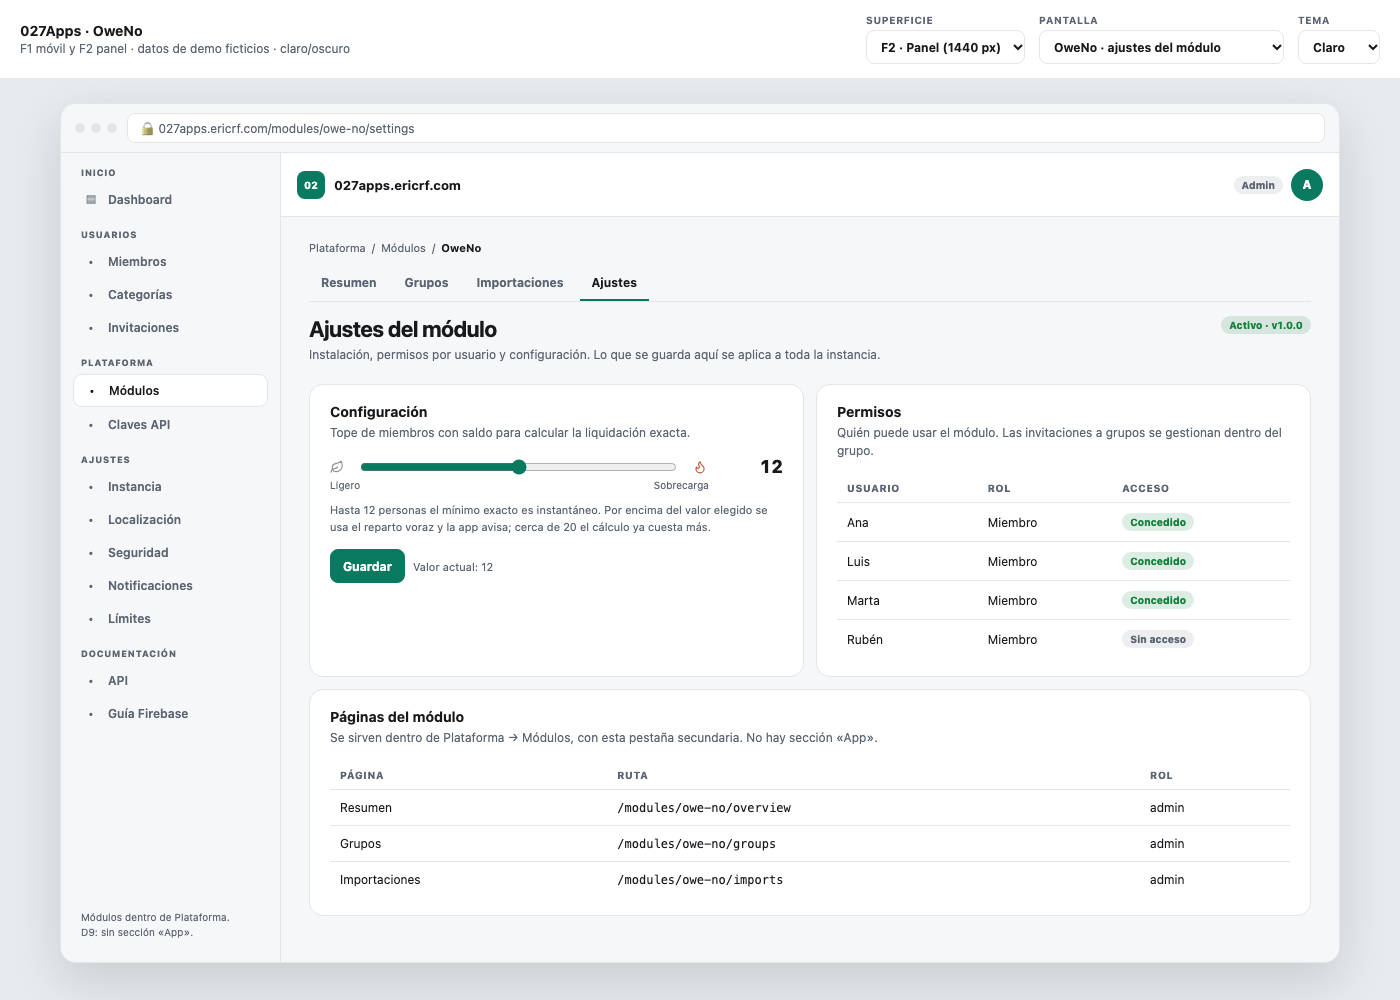
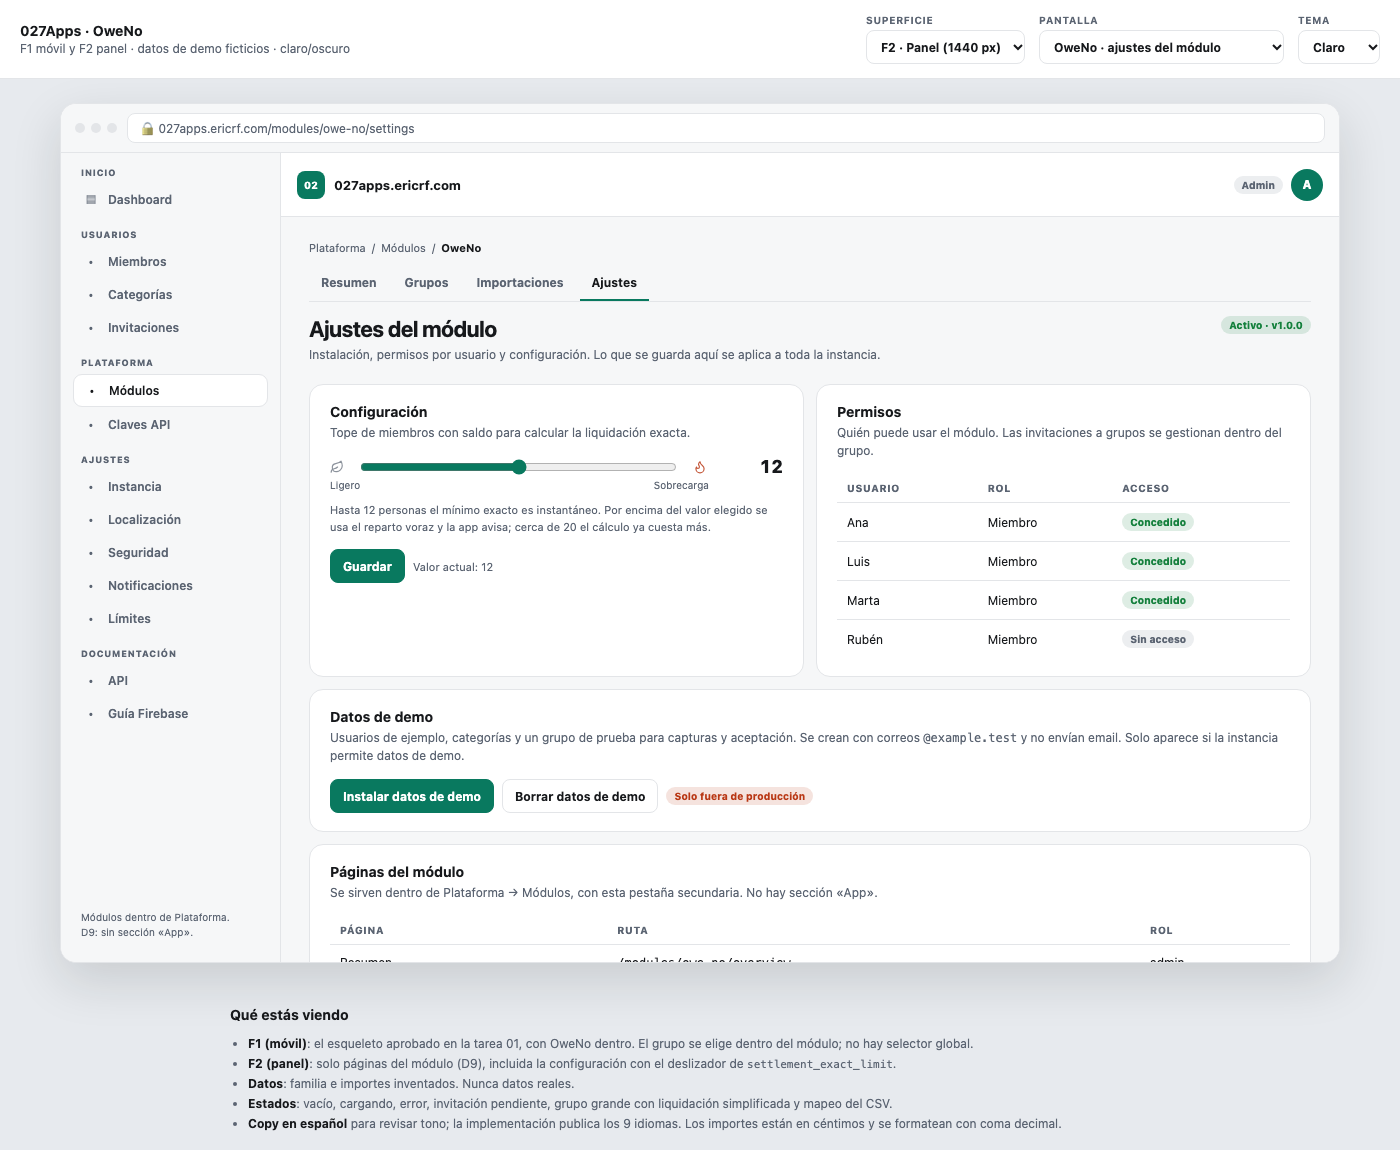
docs(sprint-15): fix the splitwise tutorial and decide the demo data capability

diff --git a/docs/mockups/owe-no/index.html b/docs/mockups/owe-no/index.html
@@ -1143,13 +1143,13 @@ const screens = {
         <div class="card">
           <div class="section-head" style="margin-top:0"><h2 class="section-title">Cómo exportar de Splitwise</h2></div>
           <ol style="margin:0;padding-left:18px;font-size:13px;line-height:1.7;color:var(--foreground)">
-            <li>Abre el <strong>grupo</strong> en Splitwise.</li>
+            <li>Abre <strong>splitwise.com en el navegador</strong>. La app móvil no ofrece esta opción.</li>
+            <li>Entra al <strong>grupo</strong>.</li>
             <li>Toca el <strong>engranaje</strong> del grupo.</li>
-            <li>Elige <strong>«Export as spreadsheet»</strong>.</li>
-            <li>Guarda o comparte el archivo <code>.csv</code>.</li>
+            <li>Elige <strong>«Export as spreadsheet»</strong> y descarga el CSV.</li>
             <li>Vuelve aquí y elige el archivo.</li>
           </ol>
-          <p class="note">Un archivo por grupo. El CSV sale en el idioma de tu cuenta: aceptamos cabeceras en español e inglés.</p>
+          <p class="note">Si lo haces desde el móvil, abre la web en el navegador: el archivo se descarga en el dispositivo. Un archivo por grupo; el CSV sale en el idioma de tu cuenta (aceptamos español e inglés).</p>
         </div>
         <div class="card" style="text-align:center;padding:22px 16px">
           <div class="empty-icon" style="margin-bottom:10px">⇩</div>
@@ -1482,6 +1482,18 @@ const panelScreens = {
           </table>
         </div>
       </div>
+      <div class="panel-card" style="margin-top:12px">
+        <h2>Datos de demo</h2>
+        <p>Usuarios de ejemplo, categorías y un grupo de prueba para capturas y aceptación. Se crean
+          con correos <code>@example.test</code> y no envían email. Solo aparece si la instancia
+          permite datos de demo.</p>
+        <div style="display:flex;gap:8px;align-items:center;flex-wrap:wrap">
+          <button class="btn-sm accent">Instalar datos de demo</button>
+          <button class="btn-sm">Borrar datos de demo</button>
+          <span class="pill warn">Solo fuera de producción</span>
+        </div>
+      </div>
+
       <div class="panel-card" style="margin-top:12px">
         <h2>Páginas del módulo</h2>
         <p>Se sirven dentro de Plataforma → Módulos, con esta pestaña secundaria. No hay sección «App».</p>

diff --git a/docs/tasks/sprint-15-app-y-finanzas/task-02.md b/docs/tasks/sprint-15-app-y-finanzas/task-02.md
@@ -79,6 +79,19 @@ completo con un módulo de fixture.
     módulo que apunta «Ana añadió un gasto» no debe avisar a Ana. Si el payload trae `actor_id`,
     el emisor lo excluye de los tokens de push (y del canal si el contrato lo permite); test con
     dos miembros y un autor. Sin esto, cada acción propia genera una notificación al autor.
+  - **Datos de demo (D21, variante B)**: capacidad del **Core**, sin módulo nuevo. Ajuste
+    `demo.enabled` (bool, por defecto `false`) que se rechaza en producción salvo override
+    explícito. Dataset con ids estables (`demo.ana@example.test`…), categorías e invitación;
+    `POST /api/v1/demo` (admin) idempotente y `DELETE /api/v1/demo` (admin) que se niega mientras
+    un módulo declare datos de demo enlazados. **Ningún email real**: correos `@example.test` y
+    las invitaciones de demo quedan marcadas como no enviadas.
+  - **Contrato de demo del módulo**: el manifest declara `demo: { seed_fn, clear_fn }` (funciones
+    del esquema del módulo que reciben un `jsonb` con los ids del dataset y devuelven recuentos).
+    El Core las ejecuta en una transacción al instalar/borrar demo, y al desinstalar un módulo
+    llama a `clear_fn` antes de borrar el esquema. Si el módulo no declara `demo`, no aparece el
+    botón. Cambio `module-contract`: esquema, docs, ejemplos y envoltorios.
+  - La **ficha del módulo** muestra «Instalar datos de demo» solo si `demo.enabled` está activo y
+    el dataset del Core existe; si no, la tarjeta no aparece (ni deshabilitada).
   - Fixture de módulo para `db-tests` (install → activate → endpoint con grant → evento en el
     outbox → miembro suscrito recibe → push encolado → uninstall) y tests unitarios del guard,
     del host de páginas y del canal.
@@ -116,6 +129,11 @@ módulos no debe abrir scopes de Core; el empaquetado no debe duplicar secretos 
   sin credenciales FCM, el evento se marca `published` y no se reintenta en bucle.- Un setting `int` con `min`/`max`/`step` se edita con deslizador en la página del módulo; un
   valor fuera de rango se rechaza en el servidor con `validation_failed`, y un manifest con
   `min > max` o `default` fuera de rango falla en CI.
+- Con `demo.enabled` apagado, `POST /api/v1/demo` responde `403` y el botón no aparece; en una
+  instancia marcada como producción también se rechaza.
+- Instalar el demo dos veces no duplica; borrar demo se niega si un módulo tiene datos enlazados
+  y, tras limpiarlos, elimina usuarios, categorías e invitaciones sin dejar huérfanos. No se
+  envía ningún email.
 - `docs/ai/module-system.md`, `docs/flows/new-module.md`, `docs/api/README.md` y
   `docs/flows/cicd.md` actualizados; `docs/ai/manifest.schema.json` y ejemplos del contrato de
   widgets, de los eventos/canales, del registro de dispositivos y de los settings con rango y

diff --git a/docs/tasks/sprint-15-app-y-finanzas/splitwise-export.md b/docs/tasks/sprint-15-app-y-finanzas/splitwise-export.md
@@ -21,11 +21,12 @@ teclea en el mapeo.
 
 ## 1. CSV por grupo o amistad
 
-**Dónde está.** En la web, dentro del grupo o amistad, icono de ajustes/engranaje →
-**“Export as spreadsheet”**. La base de ayuda oficial (consultada 2026-11-12) dice que también
-está en la app móvil: en la cabecera horizontal del grupo, al final, **“Export”**. Otras guías
-dicen que solo está en web; conviene no depender de la app de Splitwise y aceptar el CSV
-compartido o descargado desde la web.
+**Dónde está.** En la **web** (`splitwise.com`), dentro del grupo o amistad, icono de
+ajustes/engranaje → **“Export as spreadsheet”**. **La app móvil no lo ofrece**: comprobado por el
+propietario el 2026-11-13, que tuvo que hacerlo desde el navegador. La base de ayuda oficial
+menciona la app, pero la app real no muestra la opción; el tutorial de OweNo dice «web» y no
+depende de que Splitwise la añada. Desde el móvil se abre la web en el navegador y el CSV se
+descarga en el dispositivo.
 
 **Alcance.** Es **por grupo o por amistad**, no por cuenta: hay que repetir la exportación por
 cada grupo. No hay “exportar todo” en CSV. No hay filtro de fechas: sale todo el historial del
@@ -80,11 +81,12 @@ usado para el fixture es todo EUR.
 
 **Cómo exportar (texto para el tutorial de la app).**
 
-1. Abre el grupo en Splitwise (web; en la app puede estar en el menú del grupo).
-2. Entra en los ajustes del grupo, el engranaje.
-3. Toca **«Export as spreadsheet»** / **«Exportar como hoja de cálculo»**.
-4. Guarda el archivo `.csv` o compártelo con el móvil.
-5. En OweNo: **⋯ → Importar de Splitwise → Elegir archivo**.
+1. Abre **`splitwise.com` en el navegador**. La app móvil no tiene esta opción.
+2. Entra al grupo.
+3. Toca el engranaje del grupo.
+4. Elige **«Export as spreadsheet»** / **«Exportar como hoja de cálculo»** y descarga el `.csv`.
+5. Si lo haces desde el móvil, la web en el navegador descarga el archivo en el dispositivo.
+6. En OweNo: **⋯ → Importar de Splitwise → Elegir archivo**.
 
 ## 2. JSON backup completo (Pro)
 

diff --git a/docs/superpowers/plans/2026-11-13-owe-no.md b/docs/superpowers/plans/2026-11-13-owe-no.md
@@ -68,6 +68,7 @@ diseña aquí (F1) y se implementa en la tarea 04.
       (reservada por D20).
 - [ ] `dashboard_widgets`: `owe-no.summary` (`surface: app`) y `owe-no.metric`
       (`surface: panel`).
+- [ ] `demo: { seed_fn: "seed_demo", clear_fn: "clear_demo" }` (D21).
 - [ ] `docs`: `readme`, `api`, `settings`, `events`; los ficheros existen y nombran cada clave.
 - [ ] Test: manifest válido, digests correctos, `settings` no declarada como página, widget con
       `type` permitido.
@@ -239,19 +240,28 @@ diseña aquí (F1) y se implementa en la tarea 04.
 - [ ] Tests con `fixtures/splitwise-demo.csv`: 622 filas, 6 pagos, fila en blanco y fila sin
       coste; errores con número de línea.
 
-### D7. Usuarios enlazables e historial de importaciones
+### D7. Datos de demo (D21)
+
+- [ ] `seed_demo(ids jsonb)` en el esquema del módulo: grupo «Casa · Piso de Ana» con los
+      usuarios del dataset del Core, 6 movimientos (pagador dentro y fuera, 3 de 4 y un pago) y
+      balances cuadrados. Idempotente por clave estable del grupo.
+- [ ] `clear_demo()`: borra solo el grupo de demo y sus movimientos; nunca toca datos reales.
+- [ ] Test: instalar dos veces no duplica; borrar deja 0 grupos de demo; el Core no puede borrar
+      usuarios mientras el grupo siga enlazado.
+
+### D8. Usuarios enlazables e historial de importaciones
 
 - [ ] `GET /linkable-users` (id + nombre, sin email ni rol) solo para el creador.
 - [ ] `GET /imports` con recuentos y resultado.
 
-### D8. Eventos, push e idempotencia
+### D9. Eventos, push e idempotencia
 
 - [ ] Emitir en la misma transacción del caso de uso (`enqueueEvent`), nunca después.
 - [ ] Excluir al **autor** de los tokens de push (tarea 02).
 - [ ] Rate limit por usuario y por grupo; clave de idempotencia repetida devuelve el mismo
       recurso.
 
-### D9. OpenAPI y documentación
+### D10. OpenAPI y documentación
 
 - [ ] Registrar las operaciones en `packages/core/src/openapi/registry.ts` y regenerar
       `docs/api/openapi.json`; `pnpm check:openapi` en verde.

diff --git a/docs/tasks/sprint-15-app-y-finanzas/README.md b/docs/tasks/sprint-15-app-y-finanzas/README.md
@@ -261,7 +261,7 @@ de la v1 y es una función de la app.
 | D18 | Recordar la última ubicación | Abrir siempre en el inicio · recordar módulo o página | **Recordar** (decidido 2026-11-13): se guarda `home`, `modules` o `module:<key>`; al abrir se restaura la **pantalla raíz** del módulo (nunca un formulario). Lo implementa el shell (tarea 01). |
 | D19 | Gasto y pago: una entidad o dos | Dos tablas inmutables · **un solo movimiento** con edición y baja lógica | **Un solo `movement`** (decidido 2026-11-13): gasto = N participaciones, pago = una (el receptor). Se edita y se borra (baja lógica) siendo autor o creador; nunca se reescribe el historial de otro. |
 | D20 | Entrada al módulo en el panel | `/modules/<key>` = ficha · **= resumen, ficha aparte** | **Resumen** (decidido 2026-11-13): `/modules/<key>` redirige a `overview`; la ficha vive en `/modules/<key>/settings` (ruta reservada) y la lista de módulos ofrece **Abrir** y **Ajustes**. |
-| D21 | Datos de demo | Módulo `demo` (A) · capacidad del Core con ajuste y botón (B) · script de operador (C) | **Recomendación: B** (2026-11-13), pendiente de confirmación. El Core crea usuarios e invitaciones (el SQL del módulo no puede tocar `auth`/`public`), con correos `@example.test` **sin envío real**, solo fuera de producción, ids estables y limpieza que se niega si un módulo tiene datos enlazados. A es B más un módulo envoltorio; C no tiene botón ni gate. |
+| D21 | Datos de demo | Módulo `demo` (A) · capacidad del Core con ajuste y botón (B) · script de operador (C) | **B** (decidido 2026-11-13). El Core crea usuarios e invitaciones (el SQL del módulo no puede tocar `auth`/`public`), con correos `@example.test` **sin envío real**, solo fuera de producción, ids estables y limpieza que se niega si un módulo tiene datos enlazados. A es B más un módulo envoltorio; C no tiene botón ni gate. |
 
 ## Reglas del sprint
 

diff --git a/docs/superpowers/specs/2026-11-13-owe-no.md b/docs/superpowers/specs/2026-11-13-owe-no.md
@@ -527,6 +527,7 @@ Reglas transversales:
     { "route": "groups",    "label": "Groups",         "icon": "users", "group": "module", "role": "admin" },
     { "route": "imports",   "label": "Imports",        "icon": "download", "group": "module", "role": "admin" }
   ],
+  "demo": { "seed_fn": "seed_demo", "clear_fn": "clear_demo" },
   "dashboard_widgets": [
     { "key": "owe-no.summary", "type": "summary", "surface": "app",   "icon": "wallet", "order": 10 },
     { "key": "owe-no.metric",  "type": "metric",  "surface": "panel", "icon": "wallet", "order": 10 }
@@ -578,6 +579,9 @@ existe**, no crea una navegación paralela:
   datos, no inventa cifras.
 - **Acciones de admin en el detalle**: archivar, enlazar un ficticio con una cuenta y ver la
   deuda pendiente de quien salió. **No** edita gastos de otros: el dinero no se reescribe.
+- **Datos de demo (D21)**: en la ficha, tarjeta «Datos de demo» con instalar/borrar, visible solo
+  si la instancia lo permite y el dataset del Core existe. Siembra el grupo de prueba con los
+  usuarios de demo y 6 movimientos; borrar el demo lo elimina sin tocar datos reales.
 - Todo con tokens semánticos, claro/oscuro, tablas accesibles y sin HTML del módulo.
 
 ## 10. App móvil (diseño en F1; implementación en la tarea 04)

diff --git a/docs/tasks/sprint-15-app-y-finanzas/task-03.md b/docs/tasks/sprint-15-app-y-finanzas/task-03.md
@@ -102,6 +102,14 @@ presentar OweNo como disponible antes de que existan pantallas reales.
 - El importador de Splitwise procesa el **CSV por grupo** con preview/dry-run, errores claros y commit transaccional; **rechaza multi-divisa con aviso**; importa los pagos como liquidaciones; no deja importaciones a medias.
 - Páginas `overview`, `groups` e `imports` en el panel, dentro de Plataforma → Módulos, con
 datos de demo; landing actualizada en el mismo PR.
+- **Datos de demo (D21, B)**: OweNo declara `demo: { seed_fn, clear_fn }` y siembra un grupo de
+  prueba («Casa · Piso de Ana») con los usuarios del dataset del Core, 6 movimientos (gastos con
+  y sin el pagador, 3 de 4 participantes y un pago) y balances cuadrados; limpiar el demo borra
+  solo ese grupo. Las capturas de la landing y la aceptación de la tarea 04 usan estos datos,
+  nunca datos reales.
+- El seed de demo es idempotente y reversible: instalar dos veces no duplica, borrar deja el
+  grupo vacío y ningún movimiento huérfano, y la limpieza del Core se niega mientras el grupo de
+  demo siga enlazado.
 - `pnpm lint`, `pnpm tsc`, `pnpm test`, `pnpm --filter db-tests test`, `pnpm --filter admin build`,
   `pnpm i18n:check` en verde; CI en verde.
 
